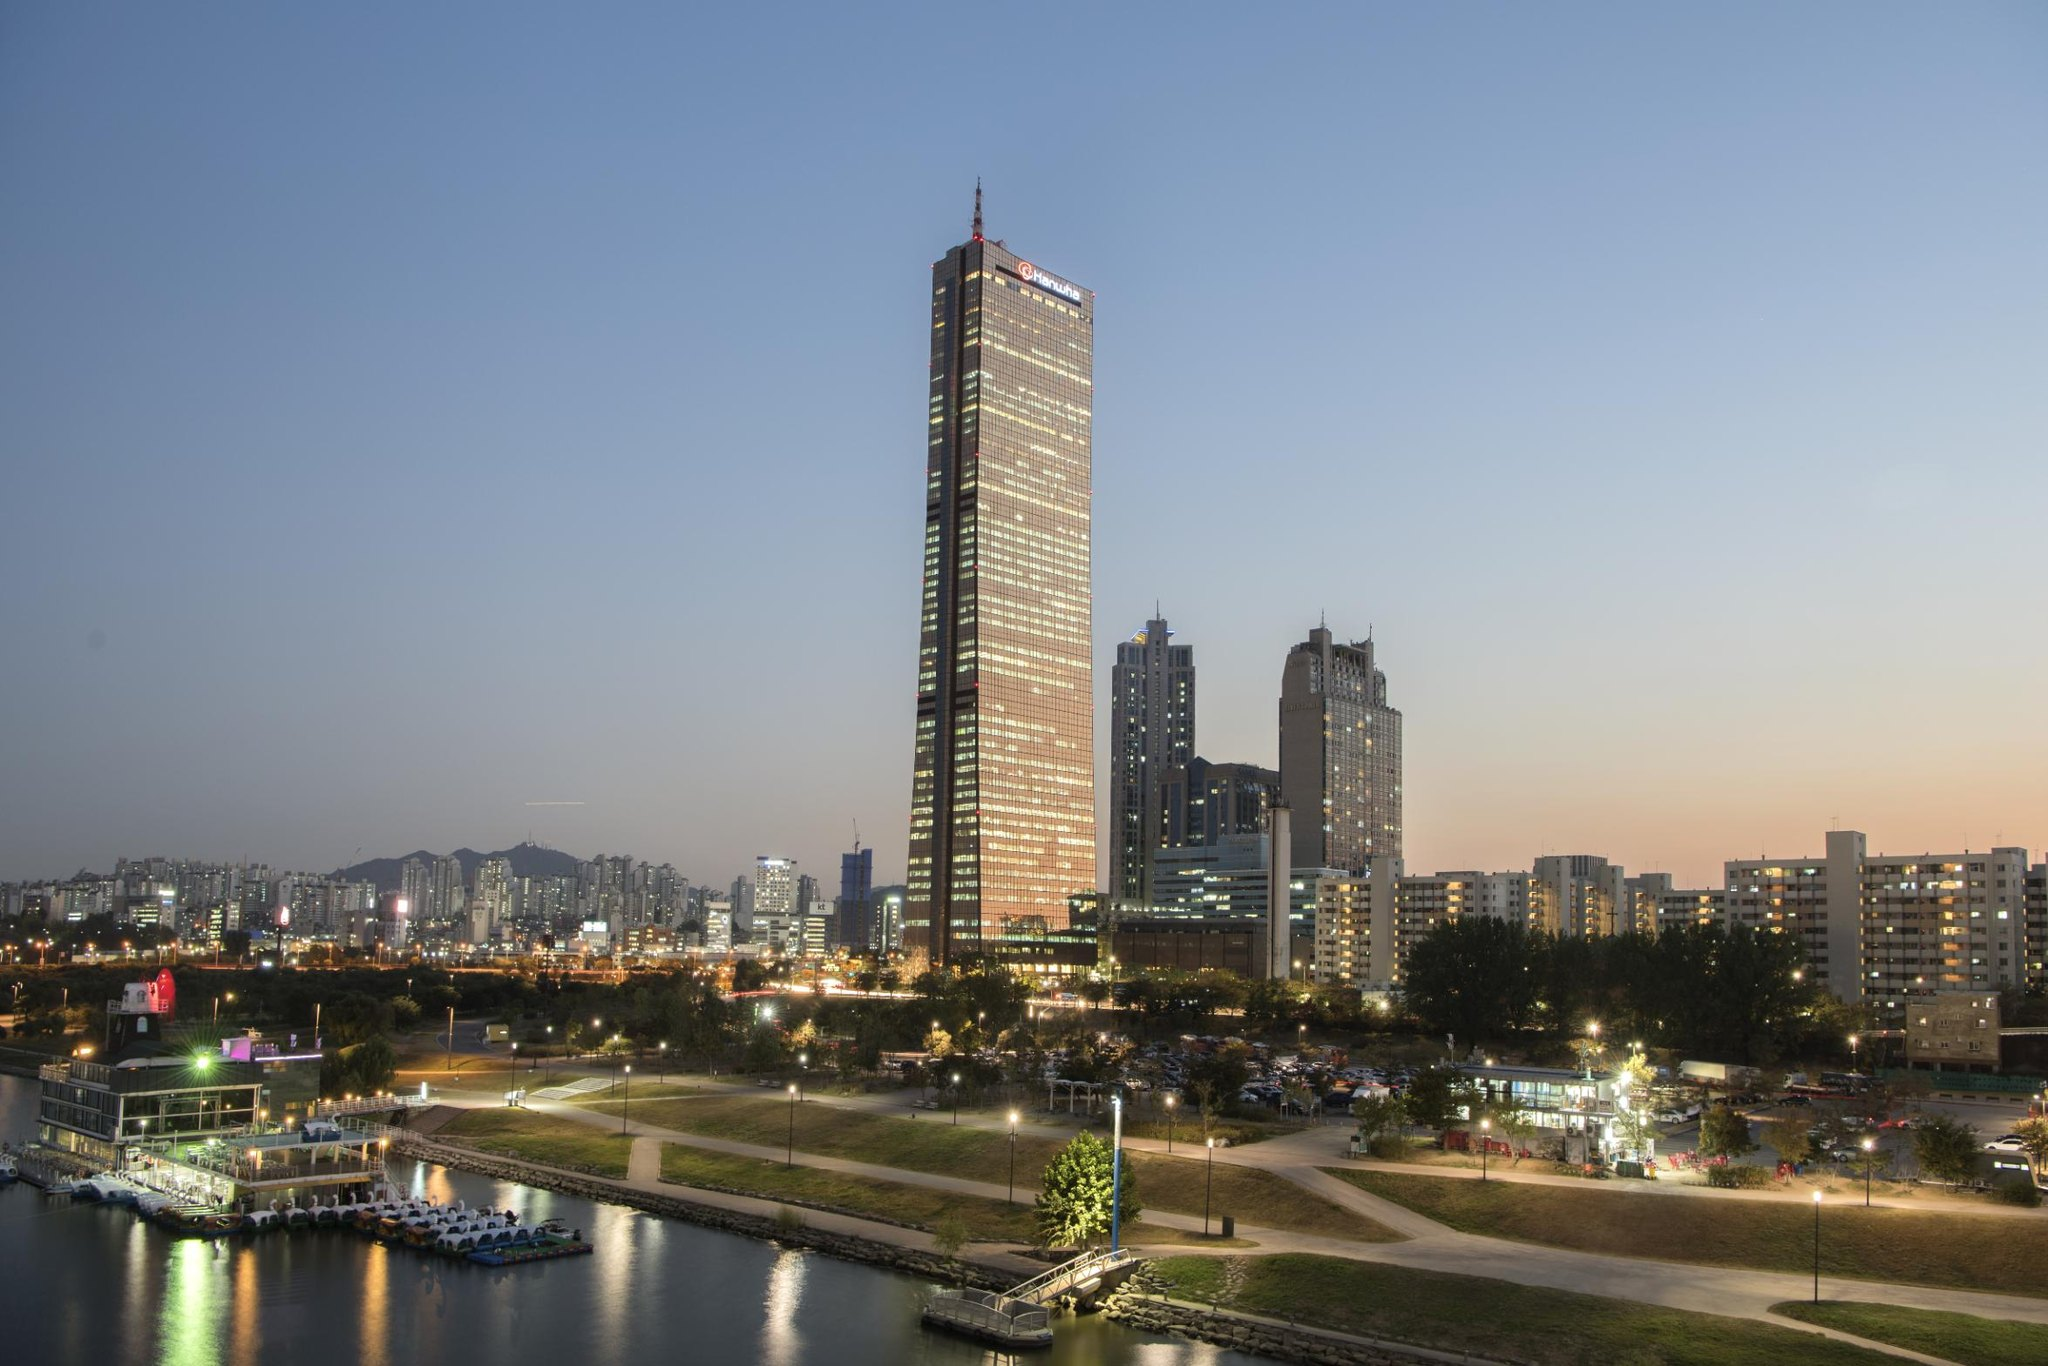
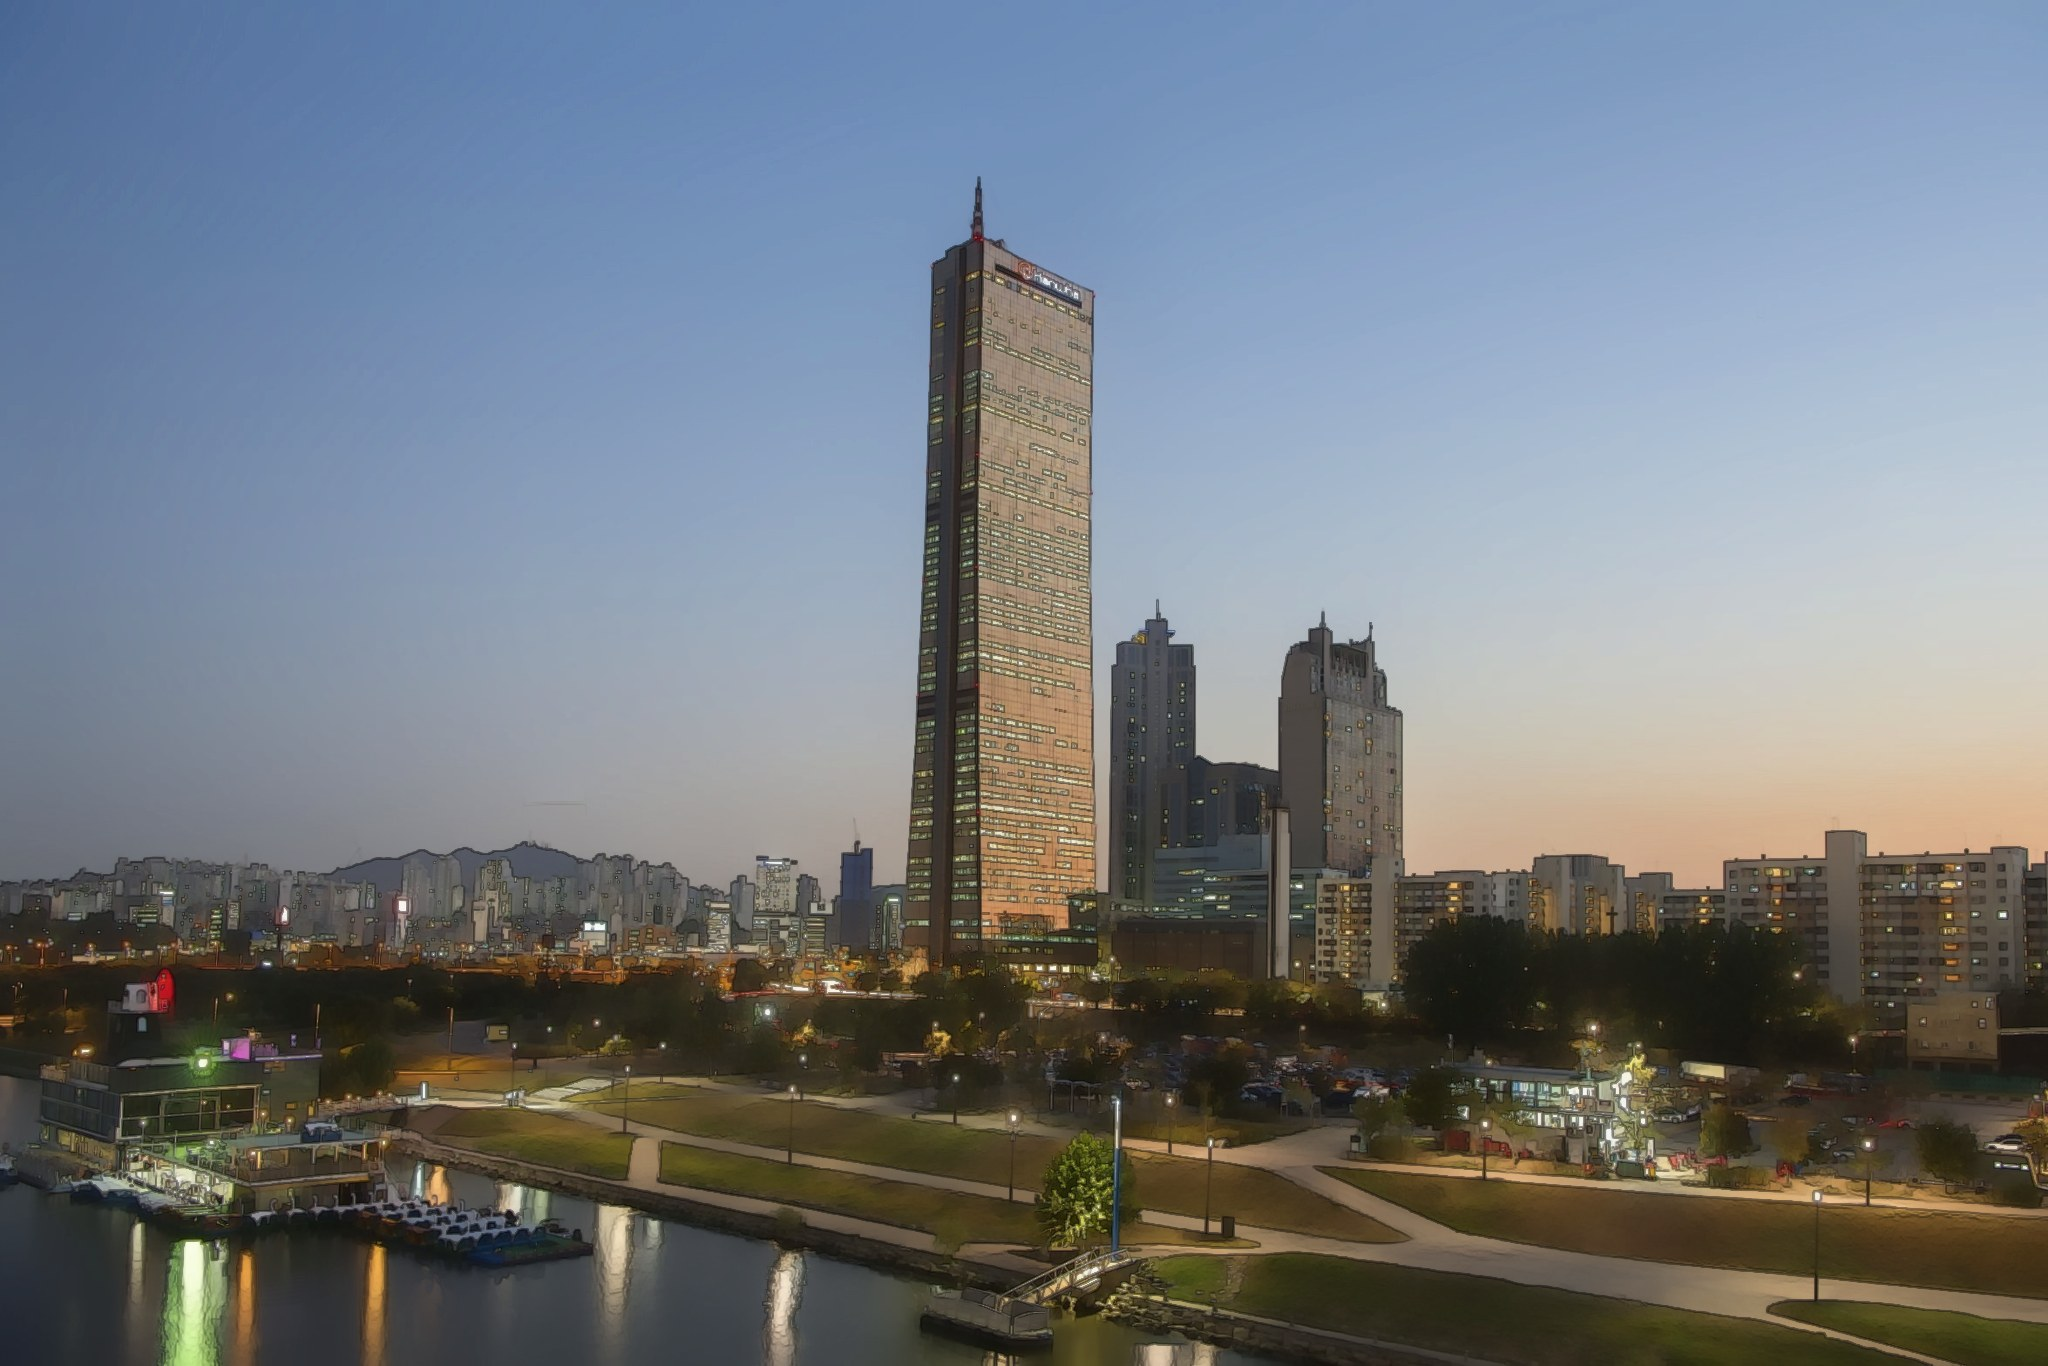
배경 사진을 살짝 그림 같은 느낌으로 보정
Claude-Session: https://claude.ai/code/session_01LihHE4VuNmz397yFq6YkBf

diff --git a/CREDITS.md b/CREDITS.md
@@ -6,4 +6,4 @@
 
 - `yeouido.jpg`: 배경 사진 「63빌딩」, 저작자 김동우, 공유마당(한국저작권위원회), 자유이용 기증 저작물  
   https://gongu.copyright.or.kr/gongu/wrt/wrt/view.do?wrtSn=13210140&menuNo=200026  
-  밤 분위기로 하늘을 어둡게 보정하고 달·불꽃을 합성해 사용
+  살짝 그림처럼 보이도록 필터 처리하고, 밤 분위기로 하늘을 어둡게 보정한 뒤 달·불꽃을 합성해 사용
